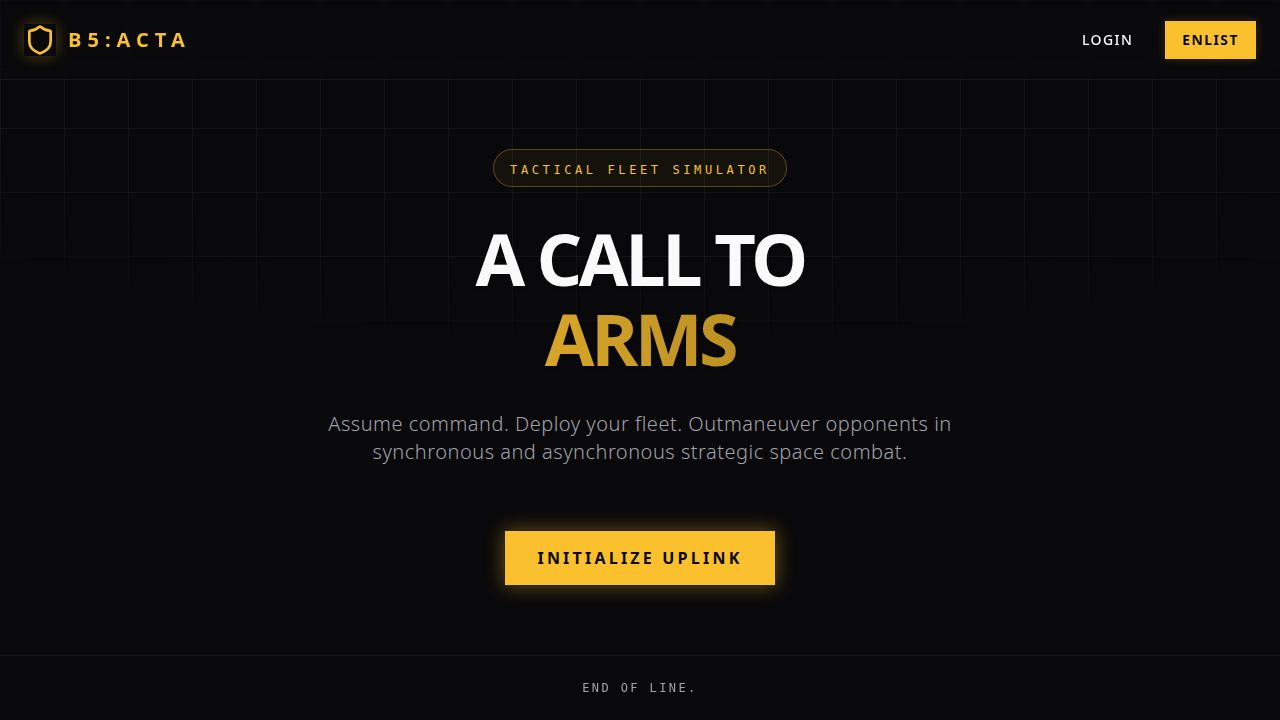
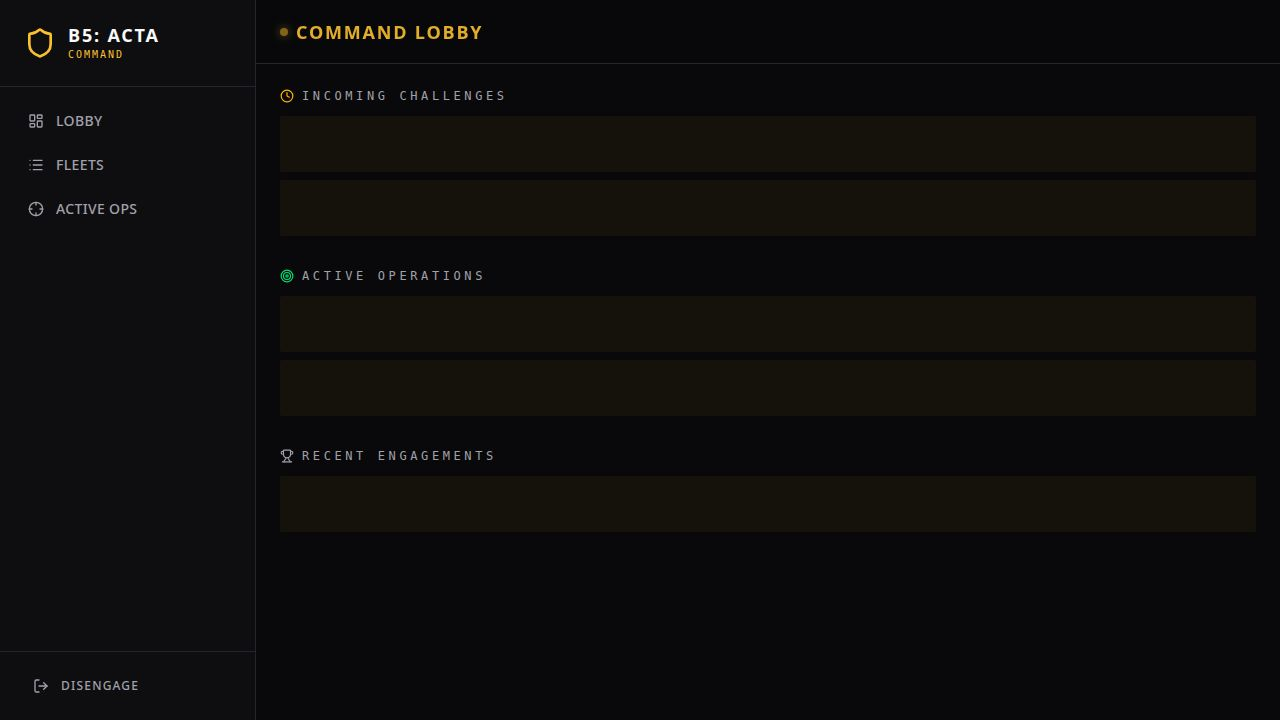
Remove login requirement for testing and access
Temporarily bypass authentication on frontend routes and backend API by using a test user ID.

Replit-Commit-Author: Agent
Replit-Commit-Session-Id: b00e0aff-d153-40f1-bfbc-1fdb76f15967
Replit-Commit-Checkpoint-Type: full_checkpoint
Replit-Commit-Event-Id: 301eba50-9f8a-4540-9fdb-d6649ca7329f
Replit-Commit-Screenshot-Url: https://storage.googleapis.com/screenshot-production-us-central1/7da1f44c-47a2-44f5-bf4a-084b7f4bd7e3/b00e0aff-d153-40f1-bfbc-1fdb76f15967/jhAAvoB
Replit-Helium-Checkpoint-Created: true

diff --git a/artifacts/b5acta/src/App.tsx b/artifacts/b5acta/src/App.tsx
@@ -110,29 +110,11 @@ function ClerkQueryClientCacheInvalidator() {
 }
 
 function HomeRedirect() {
-  return (
-    <>
-      <Show when="signed-in">
-        <Redirect to="/lobby" />
-      </Show>
-      <Show when="signed-out">
-        <Home />
-      </Show>
-    </>
-  );
+  return <Redirect to="/lobby" />;
 }
 
 function ProtectedRoute({ component: Component }: { component: any }) {
-  return (
-    <>
-      <Show when="signed-in">
-        <Component />
-      </Show>
-      <Show when="signed-out">
-        <Redirect to="/sign-in" />
-      </Show>
-    </>
-  );
+  return <Component />;
 }
 
 function ClerkProviderWithRoutes() {

diff --git a/artifacts/api-server/src/lib/auth.ts b/artifacts/api-server/src/lib/auth.ts
@@ -1,14 +1,12 @@
 import { getAuth } from "@clerk/express";
 import type { Request, Response, NextFunction } from "express";
 
+const TEST_USER_ID = "test-user-1";
+
 export const requireAuth = (req: Request, res: Response, next: NextFunction): void => {
   const auth = getAuth(req);
   const userId = auth?.sessionClaims?.userId as string | undefined || auth?.userId;
-  if (!userId) {
-    res.status(401).json({ error: "Unauthorized" });
-    return;
-  }
-  (req as any).userId = userId;
+  (req as any).userId = userId ?? TEST_USER_ID;
   next();
 };
 